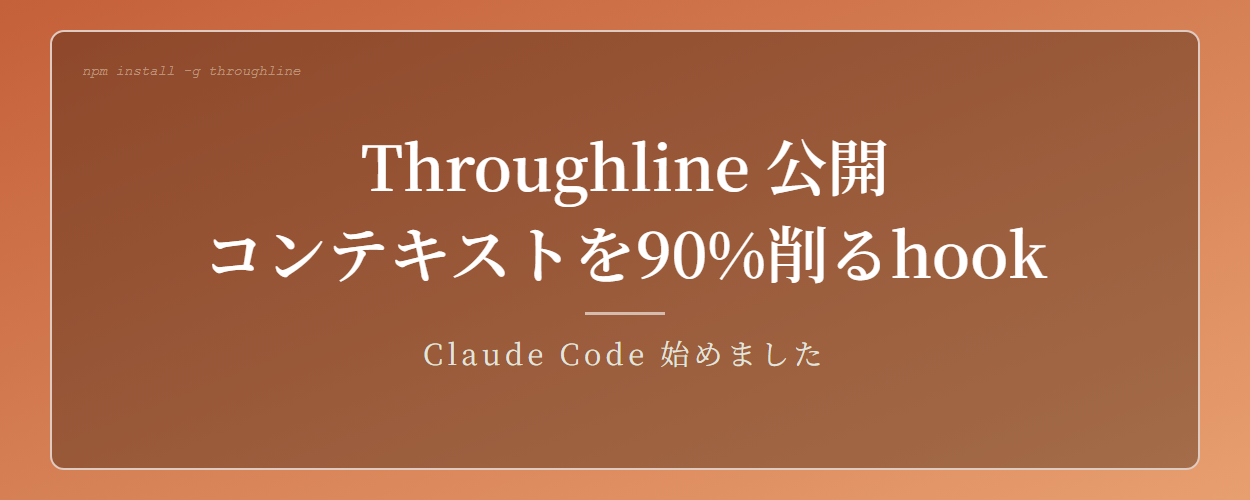
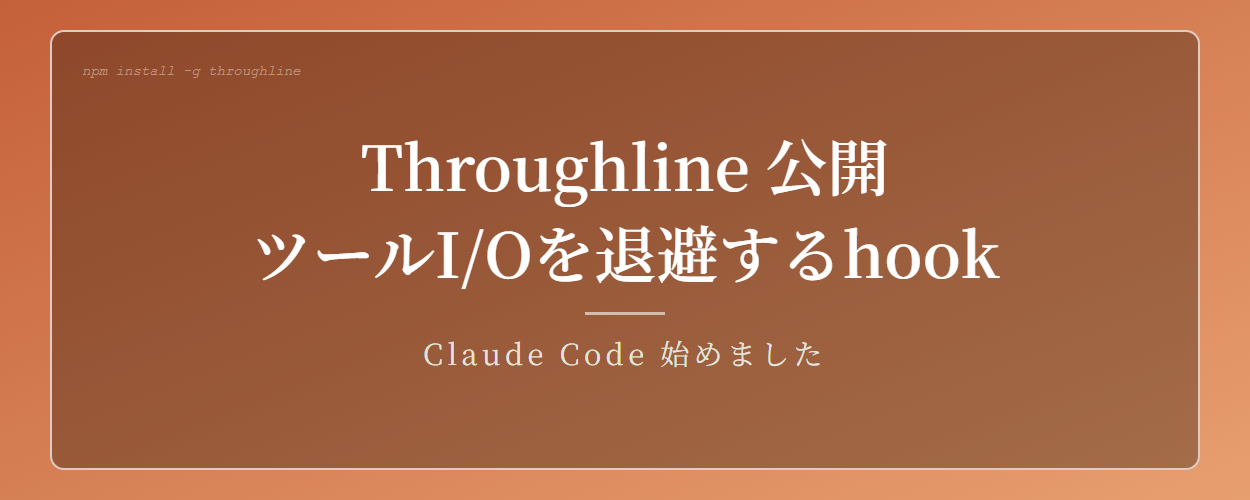
fix: Remove % framing from articles 16-17 and cover image

Changed region(s): [[0.156, 0.45, 0.8424, 0.57]]

diff --git a/CLAUDE.md b/CLAUDE.md
@@ -116,7 +116,7 @@ mainブランチにpushすると GitHub Actions（`.github/workflows/deploy.yml`
 | 14 | 長期記憶を構造化記憶にしてみた話 | ai-secretary-memory-system | 公開済み |
 | 15 | コンテキストの87%が使い捨てだったので自分で対策した話 | throughline-context-diet | 公開済み |
 | 16 | Claude Codeの"続きから"を実装するのに、自動検知を諦めた話 | throughline-declare-over-detect | 公開済み |
-| 17 | Throughline を npm に公開した — Claude Codeのコンテキストを90%削るhook | throughline-release | 公開済み |
+| 17 | Throughline を npm に公開した — Claude CodeのツールI/OをSQLiteに退避するhook | throughline-release | 公開済み |
 
 <!-- autoskills:start -->
 

diff --git a/content/post/throughline-declare-over-detect/index.md b/content/post/throughline-declare-over-detect/index.md
@@ -8,7 +8,7 @@ cover:
   image: "cover.png"
 ---
 
-[前の記事]({{< relref "throughline-context-diet" >}})でThroughlineを公開した。コンテキストの87%を占めてるツールI/Oを退避して、90%圧縮するやつ。
+[前の記事]({{< relref "throughline-context-diet" >}})でThroughlineを公開した。コンテキストの大半を占めてるツールI/Oを退避して、会話本文だけ残すやつ。
 
 あの時点では"動いてた"。自分の環境では。
 
